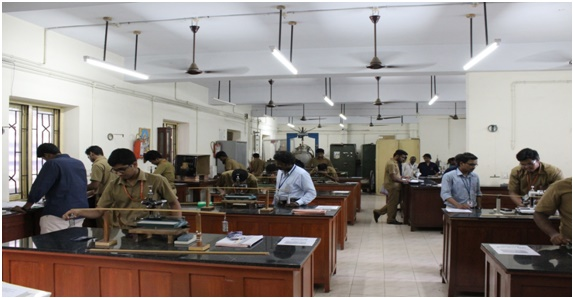
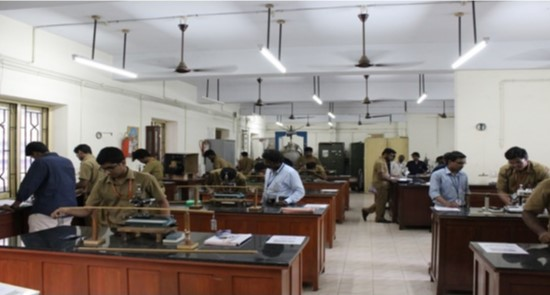
fix image res

diff --git a/src/routes/infrastructure/index.js b/src/routes/infrastructure/index.js
@@ -13,7 +13,7 @@ const Infrastructure = () => {
                   PHYSICS LABORATORY
               </h2>
               <center>
-                <div id="carouselExampleIndicators" className="carousel slide idivision" data-bs-ride="carousel">
+                <div id="carouselExampleIndicators" className="carousel carousel-dark slide idivision" data-bs-ride="carousel">
                   <div className="carousel-indicators">
                     <button type="button" data-bs-target="#carouselExampleIndicators" data-bs-slide-to="0" className="active" aria-current="true" aria-label="Slide 1"></button>
                     <button type="button" data-bs-target="#carouselExampleIndicators" data-bs-slide-to="1" aria-label="Slide 2"></button>
@@ -48,7 +48,7 @@ const Infrastructure = () => {
                   CHEMISTRY LABORATORY
               </h2>
               <center>
-                <div id="carouselExampleIndicators2" className="carousel slide idivision" data-bs-ride="carousel">
+                <div id="carouselExampleIndicators2" className="carousel carousel-dark slide idivision" data-bs-ride="carousel">
                   <div className="carousel-indicators">
                     <button type="button" data-bs-target="#carouselExampleIndicators2" data-bs-slide-to="0" className="active" aria-current="true" aria-label="Slide 1"></button>
                     <button type="button" data-bs-target="#carouselExampleIndicators2" data-bs-slide-to="1" aria-label="Slide 2"></button>
@@ -78,7 +78,7 @@ const Infrastructure = () => {
               <h2 className="display mt-5">
                   UV LABORATORY
               </h2><center>
-                <div id="carouselExampleIndicators3" className="carousel slide idivision" data-bs-ride="carousel">
+                <div id="carouselExampleIndicators3" className="carousel carousel-dark slide idivision" data-bs-ride="carousel">
                   <div className="carousel-indicators">
                     <button type="button" data-bs-target="#carouselExampleIndicators3" data-bs-slide-to="0" className="active" aria-current="true" aria-label="Slide 1"></button>
                   </div>
@@ -101,7 +101,7 @@ const Infrastructure = () => {
                 COMMUNICATION LABORATORY
               </h2>
               <center>
-                <div id="carouselExampleIndicators4" className="carousel slide idivision" data-bs-ride="carousel">
+                <div id="carouselExampleIndicators4" className="carousel carousel-dark slide idivision" data-bs-ride="carousel">
                   <div className="carousel-indicators">
                     <button type="button" data-bs-target="#carouselExampleIndicators4" data-bs-slide-to="0" className="active" aria-current="true" aria-label="Slide 1"></button>
                     <button type="button" data-bs-target="#carouselExampleIndicators4" data-bs-slide-to="1" aria-label="Slide 2"></button>
@@ -128,7 +128,7 @@ const Infrastructure = () => {
                   COMPUTATIONAL MATHEMATICS LABORATORY
               </h2>
               <center>
-                <div id="carouselExampleIndicators5" className="carousel slide idivision" data-bs-ride="carousel">
+                <div id="carouselExampleIndicators5" className="carousel carousel-dark slide idivision" data-bs-ride="carousel">
                   <div className="carousel-indicators">
                     <button type="button" data-bs-target="#carouselExampleIndicators5" data-bs-slide-to="0" className="active" aria-current="true" aria-label="Slide 1"></button>
                     <button type="button" data-bs-target="#carouselExampleIndicators5" data-bs-slide-to="1" aria-label="Slide 2"></button>
@@ -155,7 +155,7 @@ const Infrastructure = () => {
                   HIGH TEMPERATURE FURNACE LABORATORY
               </h2>
               <center>
-                <div id="carouselExampleIndicators6" className="carousel slide idivision" data-bs-ride="carousel">
+                <div id="carouselExampleIndicators6" className="carousel carousel-dark slide idivision" data-bs-ride="carousel">
                   <div className="carousel-indicators">
                     <button type="button" data-bs-target="#carouselExampleIndicators6" data-bs-slide-to="0" className="active" aria-current="true" aria-label="Slide 1"></button>
                   </div>

diff --git a/src/routes/infrastructure/infrastructure.css b/src/routes/infrastructure/infrastructure.css
@@ -1,6 +1,4 @@
 .idivision
 {
-    height:400px;
-    width:90%;
     margin:10px;
 }
